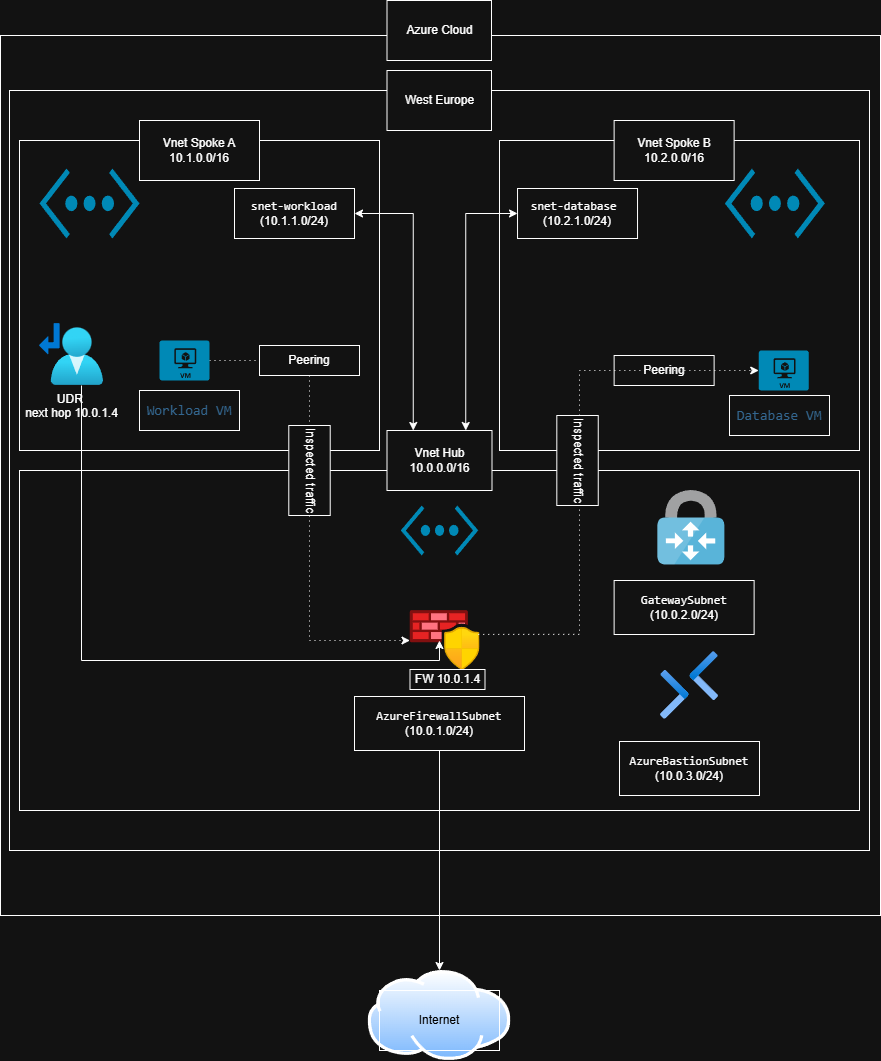
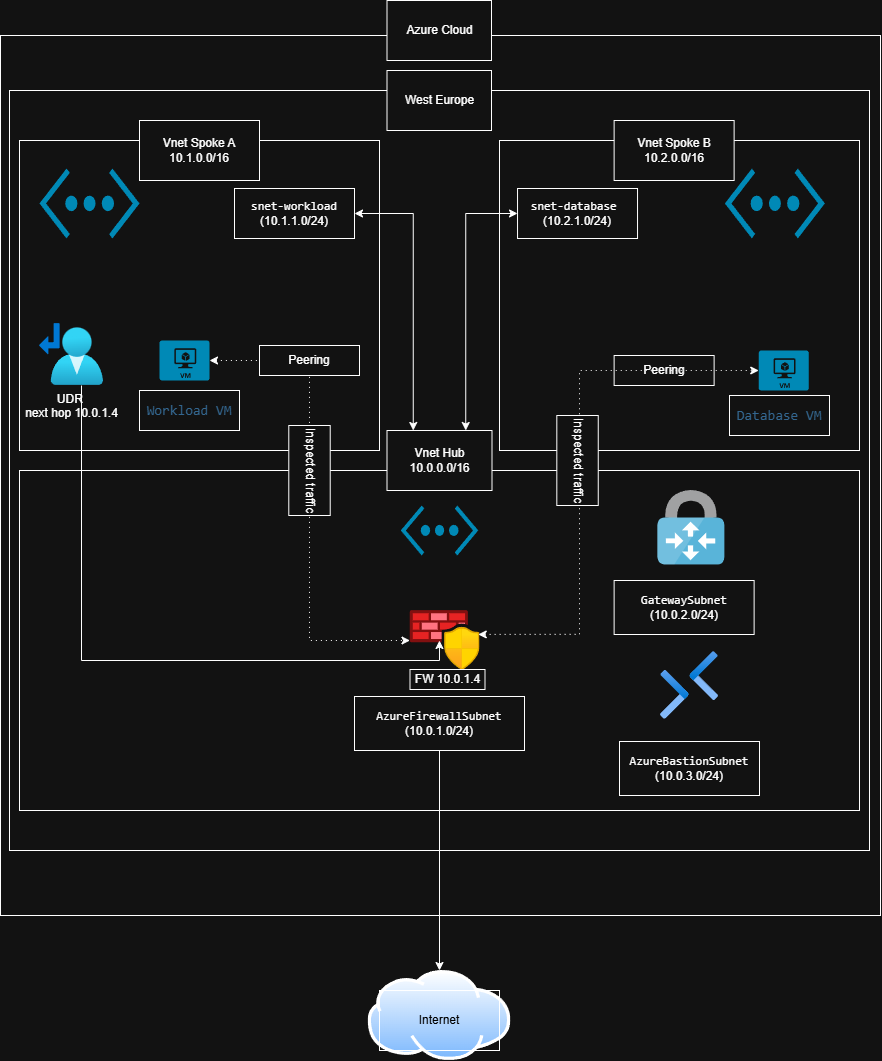
Modificación de diagrama de Red

diff --git a/README.md b/README.md
@@ -50,3 +50,12 @@ Todo el tráfico entre el **Spoke A** y el **Spoke B** es forzado hacia la IP pr
 1. El tráfico sale de la VM en Spoke A.
 2. La **UDR** intercepta el paquete y lo envía al Firewall en el Hub.
 3. El Firewall aplica las **Network Rules** y, si es autorizado, lo encamina al Spoke B.
+
+## 🚀 Resumen del Proyecto
+Infraestructura de red de alta seguridad en Azure configurada íntegramente como Código (IaC).
+
+### Capacidades Implementadas:
+* **Segmentación L3/L4:** Control de tráfico mediante Azure Firewall Policy.
+* **Enrutamiento Forzado (Next-Hop):** Tablas de rutas (UDR) que garantizan que ningún paquete entre Spokes evite la inspección.
+* **Topología Hub-and-Spoke:** Aislamiento total de la capa de datos (Spoke B) respecto a la capa de cómputo (Spoke A).
+* **Gestión Segura:** Subredes dedicadas para Azure Bastion y Gateway.
